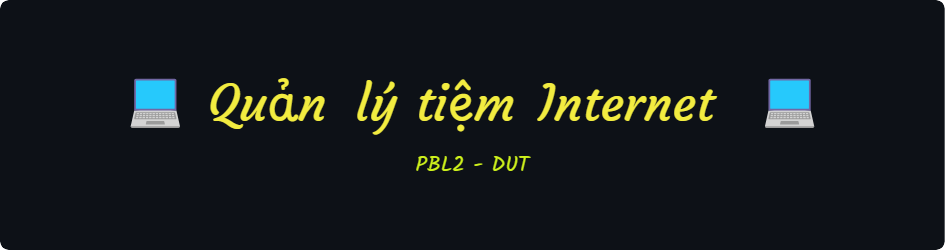
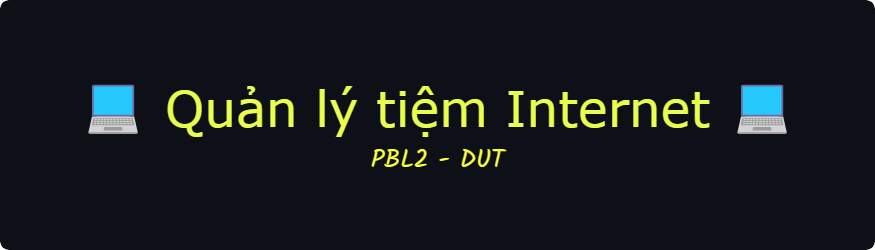
Update header image in README.md

Changed region(s): [[0.0926, 0.308, 0.9257, 0.56], [0.4011, 0.588, 0.5863, 0.7]]

diff --git a/README.md b/README.md
@@ -1,4 +1,6 @@
-![Header](./github-header-image.png)
+<h3 align="center">
+	<img src="https://raw.githubusercontent.com/dangkhoaw/quan-ly-tiem-internet/main/github-header-image.png" alt="Logo" width="950">
+</h3>
 
 <p align="center">
 	<a href="https://github.com/dangkhoaw/quan-ly-tiem-internet/stargazers"><img src="https://img.shields.io/github/stars/dangkhoaw/quan-ly-tiem-internet?colorA=363a4f&colorB=b7bdf8&style=for-the-badge"></a>
